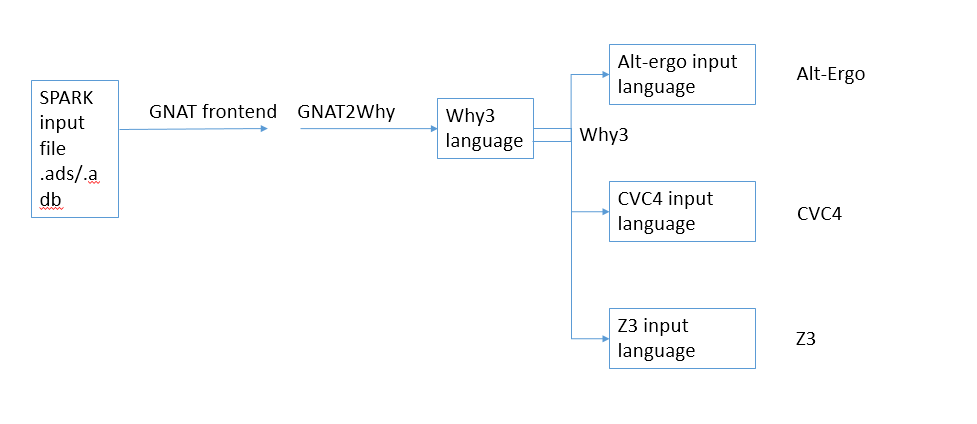
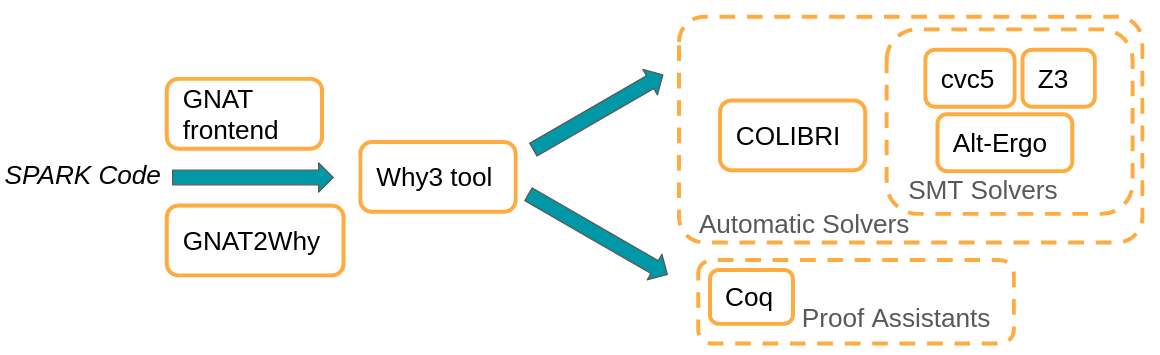
Update documentation on quality assurance wrt soundness
A lot of efforts are done in the development of GNATprove to prevent
and detect soundness issues. Document it.

[changelog]
* docs/ug/en/appendix/quality_assurance.rst: Add info on soundness.
* docs/ug/static/spark_structure.png: Update tool schematic.

no-tn-check

diff --git a/docs/ug/en/appendix/quality_assurance.rst b/docs/ug/en/appendix/quality_assurance.rst
@@ -1,4 +1,4 @@
-SPARK architecture, quality assurance and maturity
+SPARK Architecture, Quality Assurance and Maturity
 ==================================================
 
 Development Process and Quality Assurance
@@ -13,22 +13,32 @@ Quality Procedures in place for all development at AdaCore. This includes:
 * The process for implementing new functionality;
 * The process for maintaining user documentation;
 * Ensuring quality of sources and technical documentation;
-* Preparation of releases
+* Preparation of releases.
 
 As an extension to Chapter 2, section “AdaCore internal testsuite”, SPARK
 contains its own testsuites:
 
-* The SPARK main testsuite: This testsuite contains 1700 tests. These tests are specifically targeted at the SPARK software and cover typical use cases, often represented by code sent to us by customers, as well as specific features of the SPARK software.
+* The SPARK main testsuite: This testsuite contains 3600 tests. These tests are specifically targeted at the SPARK software and cover typical use cases, often represented by code sent to us by customers, as well as specific features of the SPARK software.
 * The ACATS testsuite in SPARK mode: A selection of the ACATS testsuite mentioned in the AdaCore Quality Procedures for the compiler is also used to test the SPARK tools.
 
-These tests are run on various occasions (see also Chapter 2 of the Adacore Quality Procedures): * During nightly testing, once with assertions enabled, once without (the actual SPARK product);
+These tests are run on various occasions (see also Chapter 2 of the Adacore Quality Procedures):
+
+* During nightly testing, once with assertions enabled, once without (the actual SPARK product);
 * After every check-in, during continuous integration;
-* To test a patch before check-in using the Mailserver technology.
+* To test a patch before check-in using the Mailserver or continuous builder technologies.
+
+The known-problems file associated with a specific release of SPARK specially
+identifies soundness bugs, whose potential effect is to hide actual problems in
+the program, under the tags "missing-check" (when a check message could be
+missing) and "missing-violation" (for any other soundness issue). Such entries
+always include a "detection" field for detecting the possibility of triggering
+such a bug in the application of SPARK.
+
 
 Structure of the SPARK Software
 -------------------------------
 
-At a high level, SPARK reads source files in the Ada programming language,
+At a high level, the tool GNATprove reads source files in the Ada programming language,
 with some annotations specific to SPARK, processes them, and in the end issues
 a report about errors found and proved or unproved properties. Looking more
 closely at how this is achieved, one can see this high-level structure of
@@ -38,7 +48,7 @@ SPARK:
 
 
 The development of the GNAT front-end and GNAT2Why components entirely follows
-the  procedures outlined in AdaCore Quality Procedures and the previous
+the procedures outlined in AdaCore Quality Procedures and the previous
 section. The other components, however, are mostly developed by third parties.
 Their development process and the relationship to AdaCore and Capgemini Engineering will be
 outlined below.
@@ -52,7 +62,7 @@ date, will not be part of the SPARK package of the same day, instead it will
 be integrated into SPARK after some time and after thorough testing in the
 SPARK environment.
 
-GNAT front-end
+GNAT Front-end
 ^^^^^^^^^^^^^^
 
 SPARK shares its front-end (parsing and semantic analysis) with the GNAT
@@ -63,21 +73,47 @@ follows the AdaCore quality procedures.
 GNAT2Why
 ^^^^^^^^
 
-This part of SPARK serves two purposes:
+This part of GNATprove serves two purposes:
 
 * Implement Flow Analysis, the part of the SPARK analysis which detects uninitialized variables, and computes and checks the use of global variables and parameters.
-* Translate the Ada source code to the Why language, for further processing by the Why3 tools.  GNAT2Why is developed by AdaCore and Capgemini Engineering and follows the AdaCore quality procedures.
+* Translate the SPARK source code to the Why language, for further processing by the Why3 tools.  GNAT2Why is developed by AdaCore and Capgemini Engineering and follows the AdaCore quality procedures.
+
+Because of its central role in GNATprove, and because it performs the critical
+encoding of the verification rules of SPARK when applied to a given program,
+this part of the tool receives special attention regarding soundness:
+
+* Base Why3 theories used to encode Ada datatypes are realized in Coq, to rule
+  out inconsistencies in the axiomatization (e.g. for bitvector or
+  floating-point base theories).
+* Unless the switch ``--no-axiom-guard`` is used, the axioms generated by
+  GNATprove to encode the semantics of functions in Why3 are "guarded", so
+  that they are only applicable to contexts where the corresponding function
+  is called, on the same arguments as those used in the call. This reduces the
+  risk that a wrong contract could lead to an inconsistent axiom applicable
+  everywhere.
+* No axiom is generated for functions which might not return. This also reduces
+  the risk that a wrong contract could lead to an inconsistent axiom.
+
+A special run of the SPARK main testsuite allows to monitor statement coverage
+of the testsuite over GNAT2Why source code, which is maintained above 95%, and
+aiming at full statement coverage.
+
+Addionally, through their use of the switch ``--proof-warnings`` aiming at
+detecting dead code at branching points in the program and other
+inconsistencies, users can protect against unsound tool behavior which would
+result in similar findings. This use is traditionally called a "smoke detector"
+in the scientific literature.
 
 Why3
 ^^^^
 
-This part of SPARK takes the information in the Why language produced by GNAT2Why, translates it further into a format suitable for SMT solvers such as Z3 and CVC5, and runs these tools. The results are reported back to gnat2why.
+This part of GNATprove takes the information in the Why language produced by GNAT2Why, translates it further into a format suitable for SMT solvers such as Z3 and cvc5, and runs these tools. The results are reported back to gnat2why.
 
 History: Started around the year 2000 by Jean-Christophe Filliâtre as “Why” (see Jean-Christophe Filliâtre. Why: a multi-language multi-prover verification tool. Research Report 1366, LRI, Université Paris Sud, March 2003), it has undergone a number of redevelopments until its current version Why3 (since 2010).
 
 Track record: Apart from SPARK, it is used by `Frama-C <http://frama-c.com/>`_, `Atelier B <http://www.atelierb.eu/en/>`_, and other program verification tools.
 
-Relationship with AdaCore/Capgemini Engineering: The Inria team around Why3 has strong ties with AdaCore and Capgemini Engineering. A number of research projects have been and are being carried out in collaboration with this team. This includes the `Hi-Lite project <http://www.open-do.org/projects/hi-lite/>`_, which led to the current version of SPARK based on Why3, and the still ongoing project `SOPRANO <http://soprano-project.fr/>`_ and joint laboratory `ProofInUse <http://www.spark-2014.org/proofinuse>`_. In addition, while Why3 is mainly developed at Inria, AdaCore and Capgemini Engineering have made important contributions to the technology, such as the so-called fast-WP, a more efficient implementation of the main algorithm of Why3, and the why3server, a more scalable method of running external tools such as SMT solvers.
+Relationship with AdaCore/Capgemini Engineering: The Inria team around Why3 has strong ties with AdaCore and Capgemini Engineering. A number of research projects have been and are being carried out in collaboration with this team. This includes the `Hi-Lite project <http://www.open-do.org/projects/hi-lite/>`_, which led to the current version of SPARK based on Why3, a follow-up project `SOPRANO <http://soprano-project.fr/>`_, then a joint laboratory `ProofInUse <https://www.adacore.com/proofinuse>`_ which evolved in the `ProofInUse consortium <https://proofinuse.gitlabpages.inria.fr/>`_. In addition, while Why3 is mainly developed at Inria, AdaCore and Capgemini Engineering have made important contributions to the technology, such as the so-called fast-WP, a more efficient implementation of the main algorithm of Why3, and the why3server, a more scalable method of running external tools such as SMT solvers.
 
 * Main developers: `Inria research institute <http://toccata.lri.fr/>`_
 * Main website: http://why3.lri.fr
@@ -139,14 +175,14 @@ related to a deterministic resource limiting switch.
 * Stackoverflow community: http://stackoverflow.com/questions/tagged/z3
 * Bug tracking: https://github.com/Z3Prover/z3/issues/
 
-CVC5
+cvc5
 ^^^^
 
-History: CVC5 is the fifth version of the CVC prover family. It has `evolved from the CVC4 prover <https://cs.stanford.edu/~gkremer/static/2022-tacas-cvc5.pdf>`_,  whose development started in 2012.
+History: cvc5 is the fifth version of the CVC prover family. It has `evolved from the CVC4 prover <https://cs.stanford.edu/~gkremer/static/2022-tacas-cvc5.pdf>`_,  whose development started in 2012.
 
 Track record: Very good results in various `SMT competitions <http://smtcomp.sourceforge.net>`_. Used in `TNO tool <http://torxakis.esi.nl/>`_.
 
-Relationship with AdaCore/Capgemini Engineering: AdaCore and Capgemini Engineering have provided bug reports, feature requests and small fixes to the CVC5 team, in particular related to a deterministic resource limiting switch.
+Relationship with AdaCore/Capgemini Engineering: AdaCore and Capgemini Engineering have provided bug reports, feature requests and small fixes to the cvc5 team, in particular related to a deterministic resource limiting switch. AdaCore is a founding member of `Centaur (the Center for Automated Reasoning at Stanford University) <https://centaur.stanford.edu/affiliates_and_sponsors.html>`_ which is a main contributor to cvc5.
 
 * Main developers: New York University
 * Main website: https://cvc5.github.io/
@@ -159,7 +195,7 @@ Relationship with AdaCore/Capgemini Engineering: AdaCore and Capgemini Engineeri
 COLIBRI
 ^^^^^^^
 
-History: COLIBRI is a library (COnstraint LIBrary for veRIfication) developed at CEA LIST and used for verification or test data generation purposes since 2000, using the techniques of constraint programming. The variety of types and constraints provided by COLIBRI makes it possible to use it in many testing and formaml methods tools at CEA LIST.
+History: COLIBRI is a library (COnstraint LIBrary for veRIfication) developed at CEA LIST and used for verification or test data generation purposes since 2000, using the techniques of constraint programming. The variety of types and constraints provided by COLIBRI makes it possible to use it in many testing and formal methods tools at CEA LIST.
 
 Track record: Winner (2018) and Runner-up (2019) in the quantifier-free floating-point division of the `SMT competition <http://smtcomp.sourceforge.net>`_.
 
